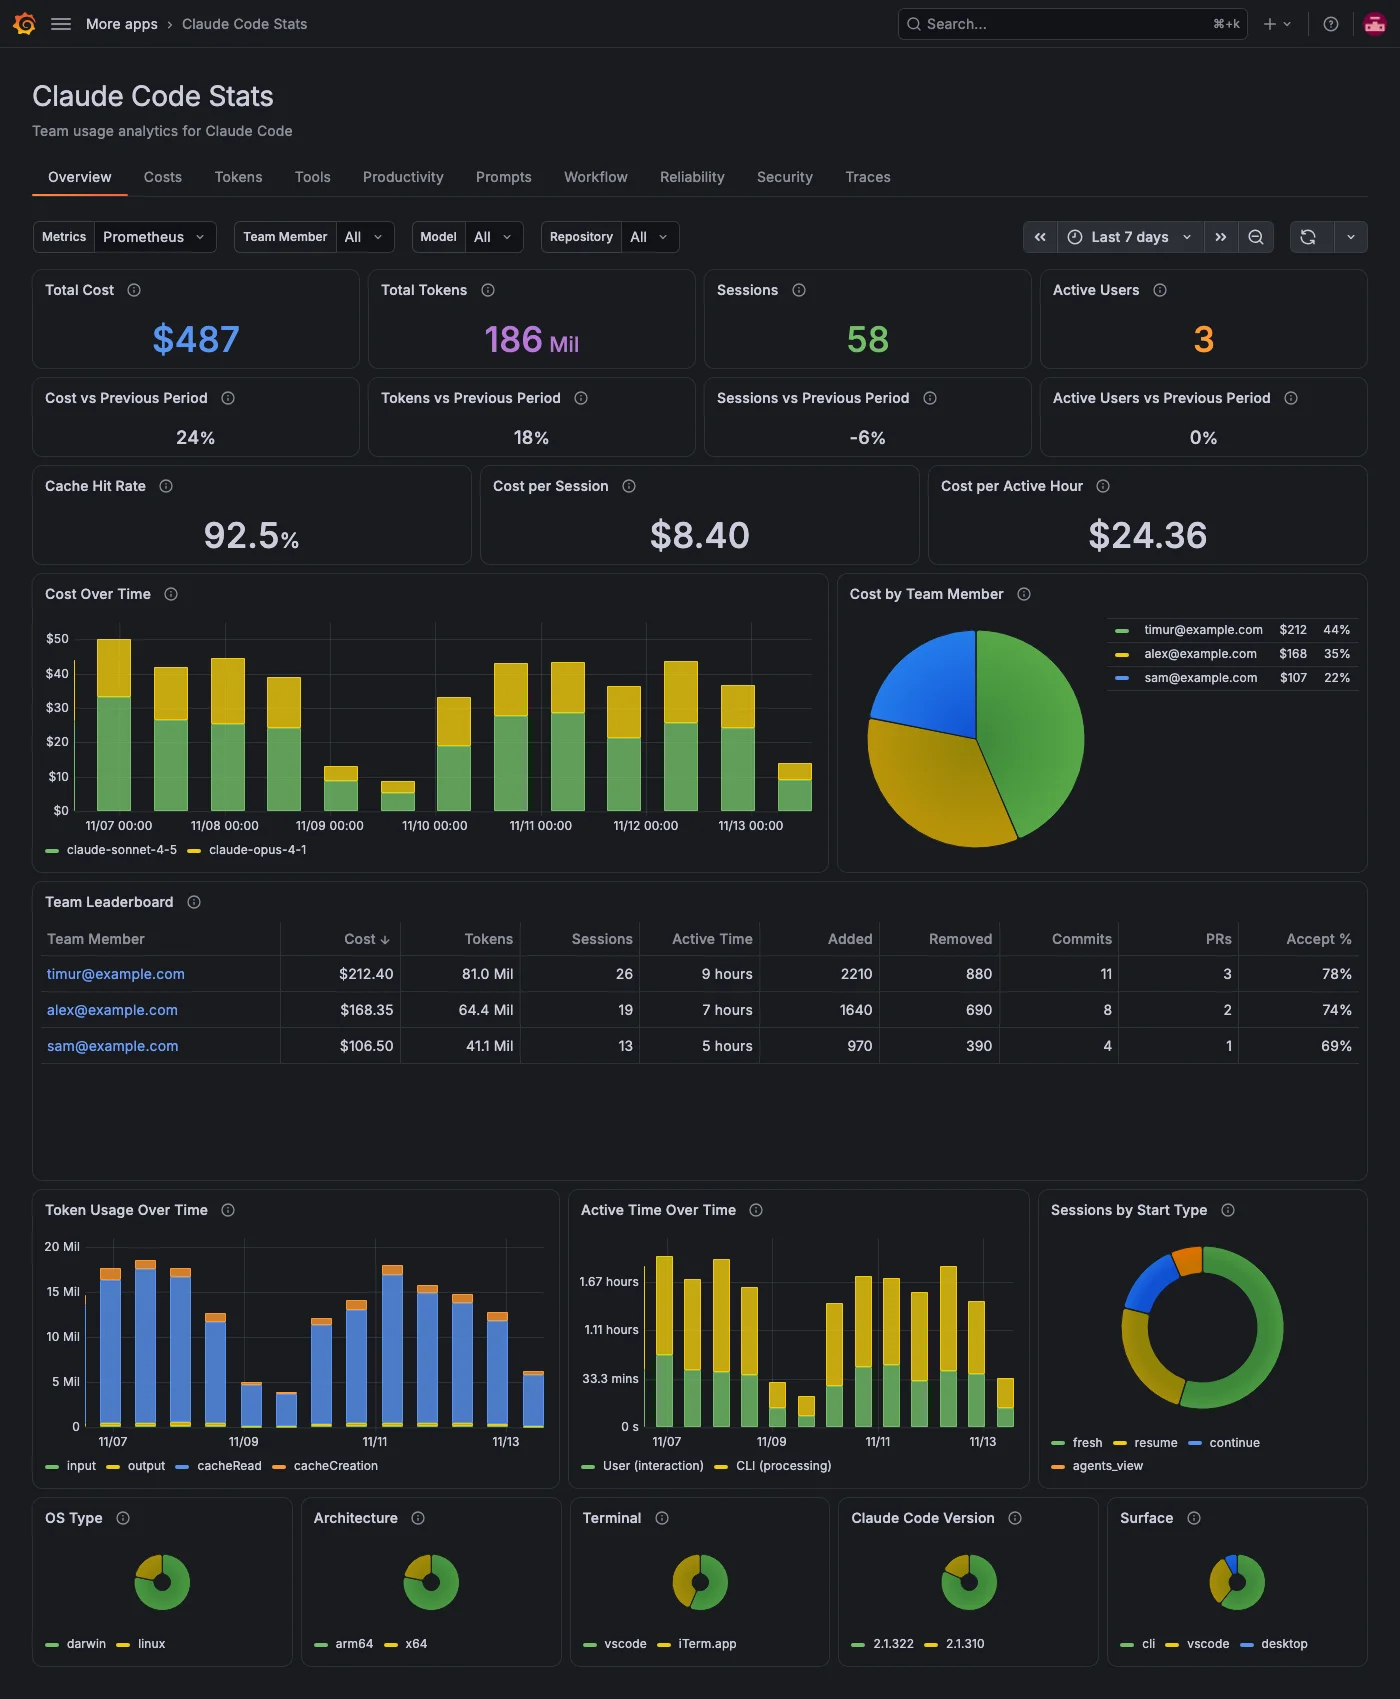
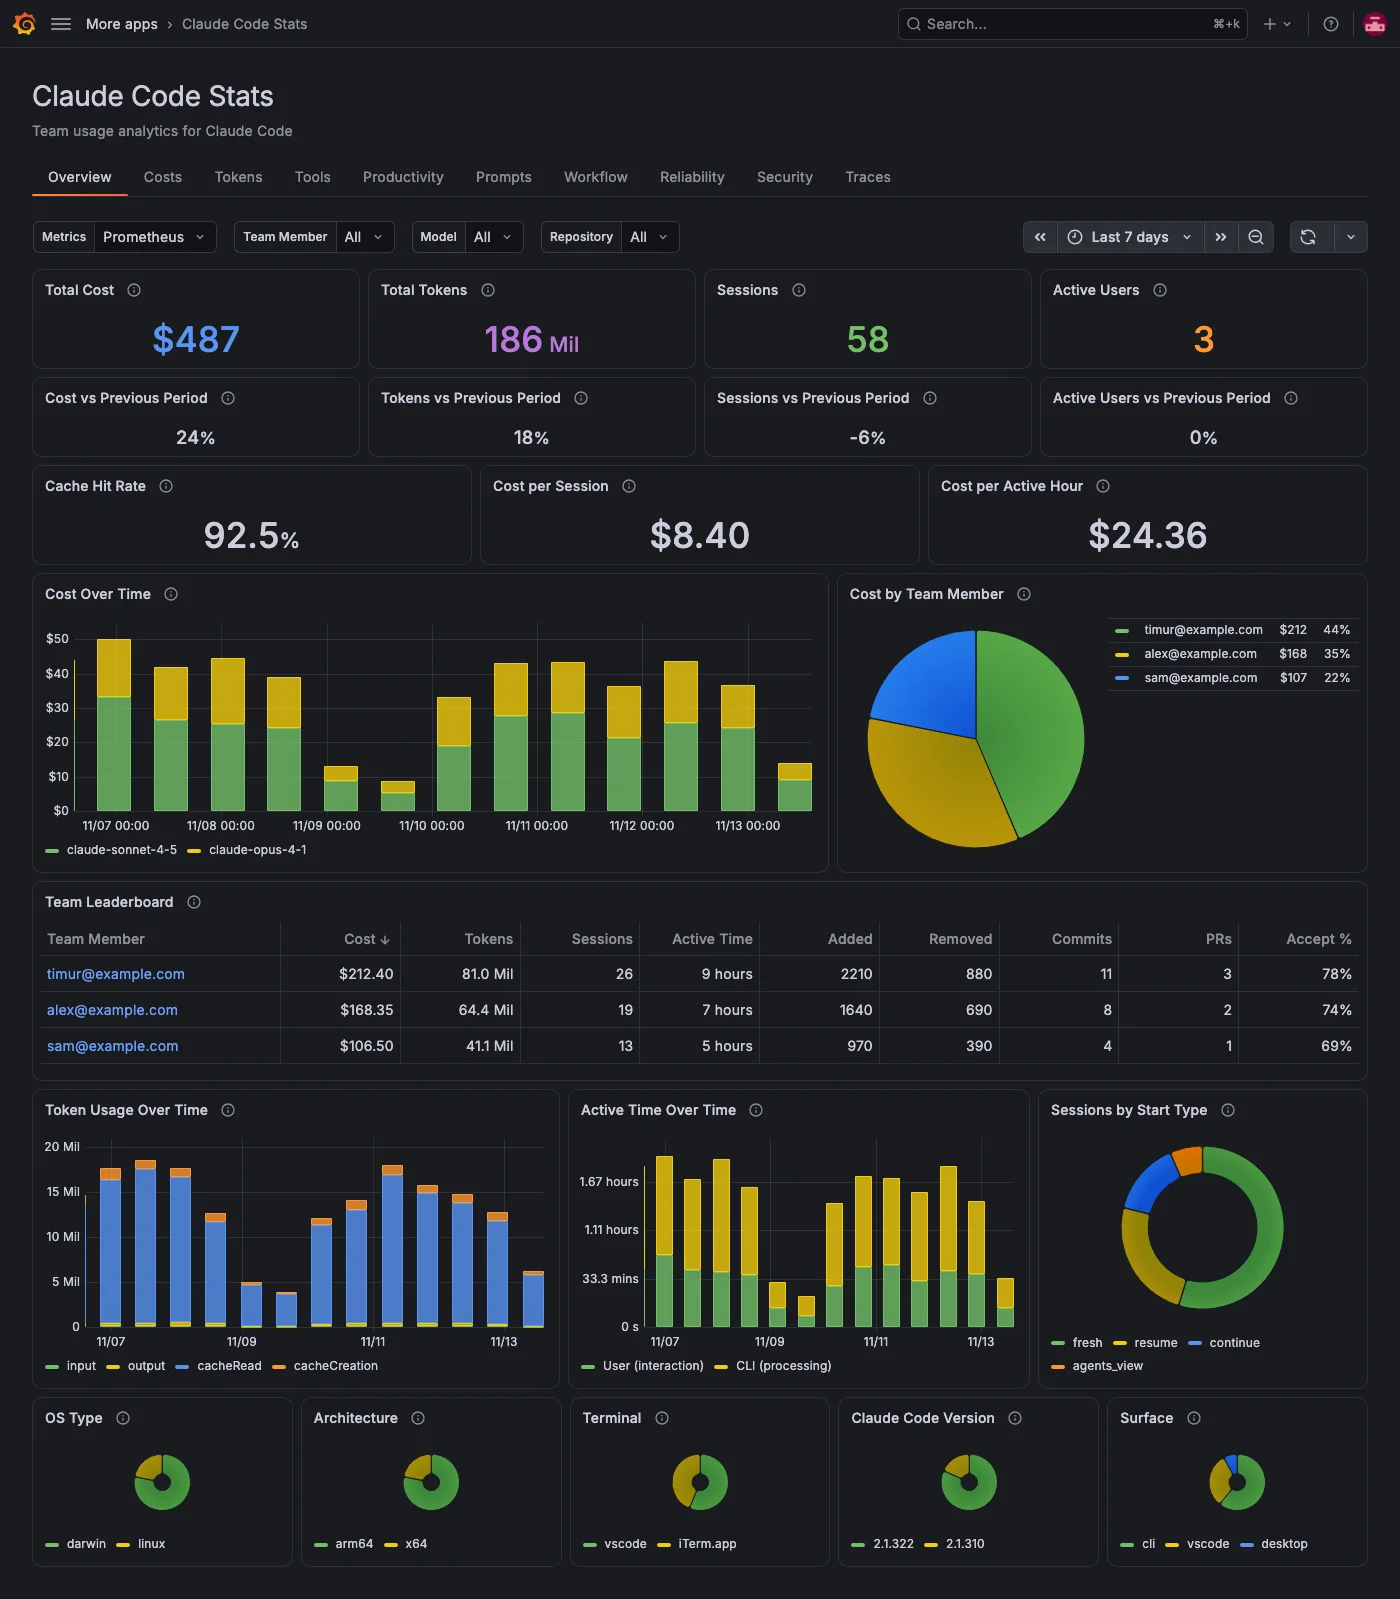
fix: hide the change row without a previous period and fit the leaderboard to its members

diff --git a/src/scenes/pages/OverviewScene.ts b/src/scenes/pages/OverviewScene.ts
@@ -12,7 +12,8 @@ import {
   SceneRefreshPicker,
 } from '@grafana/scenes';
 import { BigValueGraphMode, LegendDisplayMode } from '@grafana/schema';
-import { ACTIVE_TIME_TYPE_NAMES, changeVsPrevious, QUERIES, Queries } from '../queries';
+import { ACTIVE_TIME_TYPE_NAMES, changeVsPrevious, previousPeriod, QUERIES, Queries } from '../queries';
+import { fitHeightToRows, hideWhileEmpty } from '../fitToData';
 import { OVER_TIME_MIN_STEP, OVER_TIME_QUERY_OPTIONS, overTimeBars } from '../panelStyle';
 import { LABELS, PANEL_HEIGHTS } from '../../constants';
 import { teamLeaderboard } from './leaderboard';
@@ -242,8 +243,29 @@ export function getOverviewScene(
     ],
   });
 
+  // Change of the totals against the previous period. Hidden while the previous
+  // period has no cost, since every panel in it would say "No previous period".
+  const trendRow = new SceneFlexLayout({
+    direction: 'row',
+    height: 80,
+    children: TRENDS.map(([refId, name, key]) => new SceneFlexItem({ body: trendStat(refId, name, queries[key]) })),
+  });
+  const previousPeriodCost = new SceneQueryRunner({
+    datasource: { type: 'prometheus', uid: '${prometheus_ds}' },
+    queries: [{ refId: 'PreviousPeriodCost', expr: previousPeriod(queries.totalCost), instant: true }],
+  });
+
+  const leaderboard = teamLeaderboard(queries, variables);
+  const leaderboardRow = new SceneFlexLayout({
+    direction: 'row',
+    height: PANEL_HEIGHTS.LARGE,
+    children: [new SceneFlexItem({ body: leaderboard.panel })],
+    $behaviors: [fitHeightToRows(leaderboard.data, PANEL_HEIGHTS.LARGE)],
+  });
+
   return new EmbeddedScene({
     $timeRange: timeRange,
+    $behaviors: [previousPeriodCost, hideWhileEmpty(trendRow, previousPeriodCost)],
     $variables: variables,
     controls: [
       new VariableValueSelectors({}),
@@ -306,13 +328,7 @@ export function getOverviewScene(
           ],
         }),
         // Row 1a: Change of the totals against the previous period
-        new SceneFlexLayout({
-          direction: 'row',
-          height: 80,
-          children: TRENDS.map(
-            ([refId, name, key]) => new SceneFlexItem({ body: trendStat(refId, name, queries[key]) })
-          ),
-        }),
+        trendRow,
         // Row 1b: Efficiency ratios
         new SceneFlexLayout({
           direction: 'row',
@@ -382,12 +398,8 @@ export function getOverviewScene(
             }),
           ],
         }),
-        // Row 2b: Team leaderboard
-        new SceneFlexLayout({
-          direction: 'row',
-          height: PANEL_HEIGHTS.LARGE,
-          children: [new SceneFlexItem({ body: teamLeaderboard(queries, variables) })],
-        }),
+        // Row 2b: Team leaderboard, as tall as its rows
+        leaderboardRow,
         // Row 3: Token and Session Charts
         new SceneFlexLayout({
           direction: 'row',

diff --git a/src/scenes/fitToData.ts b/src/scenes/fitToData.ts
@@ -1,0 +1,49 @@
+import { LoadingState, PanelData } from '@grafana/data';
+import { SceneDataProvider, SceneFlexLayout, SceneObject } from '@grafana/scenes';
+
+// Layout behaviors that follow a query's result. Both listen to a data provider
+// that stays active on its own: a hidden row's panels are unmounted and stop
+// querying, so a row can't decide from its own panels when to come back.
+
+const isDone = (data?: PanelData): data is PanelData => data?.state === LoadingState.Done;
+
+/**
+ * Hides `row` while `check` returns no rows, and shows it again when it does.
+ * `check` must be active while the row is hidden, for example in the scene's
+ * `$behaviors` ahead of this behavior.
+ */
+export function hideWhileEmpty(row: SceneFlexLayout, check: SceneDataProvider) {
+  return () => {
+    const sub = check.subscribeToState(({ data }) => {
+      if (isDone(data)) {
+        row.setState({ isHidden: data.series.every((frame) => frame.length === 0) });
+      }
+    });
+    return () => sub.unsubscribe();
+  };
+}
+
+// A table panel's title bar and padding, and one header or body row, in pixels.
+const TABLE_CHROME = 56;
+const TABLE_ROW = 36;
+
+/**
+ * Sizes the row it's attached to by the rows of the table that `table` feeds, up to `max` pixels,
+ * so a table with one or two rows doesn't sit in a mostly empty panel. A longer
+ * table keeps `max` and scrolls.
+ */
+export function fitHeightToRows(table: SceneDataProvider, max: number) {
+  return (row: SceneObject) => {
+    if (!(row instanceof SceneFlexLayout)) {
+      return;
+    }
+    const sub = table.subscribeToState(({ data }) => {
+      if (isDone(data)) {
+        // At least room for the header and "No data".
+        const rows = Math.max(data.series[0]?.length ?? 0, 2);
+        row.setState({ height: Math.min(max, TABLE_CHROME + TABLE_ROW * (rows + 1)) });
+      }
+    });
+    return () => sub.unsubscribe();
+  };
+}

diff --git a/src/scenes/queries.ts b/src/scenes/queries.ts
@@ -43,14 +43,21 @@ function resolveMember(expr: string): string {
 }
 
 /**
+ * The same query over the previous period of the same length: every
+ * `[$__range]` window shifted back by `offset $__range`.
+ */
+export function previousPeriod(expr: string): string {
+  return expr.split('[$__range])').join('[$__range] offset $__range)');
+}
+
+/**
  * Percent change of a period total against the previous period of the same
- * length: the same query with every `[$__range]` window shifted back by
- * `offset $__range`. Empty when the previous period total was 0 or missing:
- * there is nothing to compare with, and dividing by 0 would show infinity.
- * An empty current period with a previous total is a drop to 0 (-100%).
+ * length (see `previousPeriod`). Empty when the previous period total was 0 or
+ * missing: there is nothing to compare with, and dividing by 0 would show
+ * infinity. An empty current period with a previous total is a drop to 0 (-100%).
  */
 export function changeVsPrevious(expr: string): string {
-  const previous = expr.split('[$__range])').join('[$__range] offset $__range)');
+  const previous = previousPeriod(expr);
   // An empty current period counts as 0, so a drop to nothing shows -100%.
   return `((${expr} or ${previous} * 0) - ${previous}) / (${previous} > 0) * 100`;
 }

diff --git a/tests/overview.spec.ts b/tests/overview.spec.ts
@@ -52,6 +52,28 @@ test.describe('Overview scene', () => {
     }
   });
 
+  test('hides the change row when there is no previous period', async ({ mockData, gotoPage, page, selectors }) => {
+    await mockEmptyPanels(page, ['PreviousPeriodCost']);
+    const app = await gotoPage();
+
+    await expect(panelByTitle(app, selectors, 'Total Cost')).toContainText(DISPLAY.TotalCost);
+    for (const [, name] of TREND_PANELS) {
+      await expect(panelByTitle(app, selectors, `${name} vs Previous Period`)).toHaveCount(0);
+    }
+  });
+
+  test('sizes the leaderboard to its members', async ({ mockData, gotoPage, selectors }) => {
+    const app = await gotoPage();
+    const table = panelByTitle(app, selectors, 'Team Leaderboard');
+    await expect(table.getByText(MEMBERS[2], { exact: true })).toBeVisible();
+
+    // Three members need far less than the 300 px a long list gets, and every row still shows.
+    await expect.poll(async () => (await table.boundingBox())?.height ?? 0).toBeLessThan(250);
+    for (const member of MEMBERS) {
+      await expect(table.getByText(member, { exact: true })).toBeVisible();
+    }
+  });
+
   test('shows usage by surface, with a hint when entrypoints are not sent', async ({
     mockData,
     gotoPage,

diff --git a/src/scenes/pages/leaderboard.ts b/src/scenes/pages/leaderboard.ts
@@ -70,7 +70,7 @@ export function teamLeaderboard(queries: Queries, variables: SceneVariableSet) {
     ],
   });
 
-  return PanelBuilders.table()
+  const panel = PanelBuilders.table()
     .setTitle('Team Leaderboard')
     .setDescription(
       'One row per team member for the period. Added and Removed are lines of code, PRs are pull requests, and Accept % is the edit acceptance rate. Click a column header to sort, or a member to filter the app to them. Shows every member regardless of the Team Member filter; cost and tokens follow the Model filter.'
@@ -94,4 +94,6 @@ export function teamLeaderboard(queries: Queries, variables: SceneVariableSet) {
         ]);
     })
     .build();
+  // The data too, so the row can size itself to the number of members.
+  return { panel, data };
 }

diff --git a/tests/mocks/prometheus.ts b/tests/mocks/prometheus.ts
@@ -295,6 +295,8 @@ export const LEADERBOARD = {
 // Scalar values rendered by stat panels.
 export const SCALARS = {
   TotalCost: sum(COST.byMember),
+  // Cost in the period before, which the Overview checks before showing the change row.
+  PreviousPeriodCost: 390,
   TotalTokens: sum(TOKENS.byType),
   TotalSessions: sum(SESSIONS_BY_START_TYPE) - SESSIONS_BY_START_TYPE.agents_view,
   ActiveUsers: MEMBERS.length,

diff --git a/catalog-docs/features/overview.md b/catalog-docs/features/overview.md
@@ -24,7 +24,7 @@ The top row shows four totals:
 
 Cost is the estimate Claude Code reports. For billing data, use your Anthropic or cloud provider console.
 
-The row under the totals compares cost, tokens, sessions and active users with the previous period of the same length, such as the 7 days before the last 7 days. Each shows **No previous period** when the previous period had none to compare with, and -100% when it had some but this period has none.
+The row under the totals compares cost, tokens, sessions and active users with the previous period of the same length, such as the 7 days before the last 7 days. The row is hidden when the previous period had no cost, such as in a new setup. Otherwise each panel shows **No previous period** when its own total had nothing to compare with, and -100% when the previous period had some but this period has none.
 
 ## Check efficiency
 
@@ -38,7 +38,7 @@ The second row shows three ratios for the period:
 
 ## Compare team members
 
-**Team Leaderboard** has one row per team member with their cost, tokens, sessions, active time, lines added and removed, commits, pull requests and edit acceptance rate. It's sorted by cost. Click a column header to sort by it, or click a member's name to filter every tab to that member, keeping your other filters. Usage that can't be attributed to anyone isn't listed, but still counts in the totals and the other per-member panels.
+**Team Leaderboard** has one row per team member with their cost, tokens, sessions, active time, lines added and removed, commits, pull requests and edit acceptance rate. It grows with the number of members and scrolls past about five. It's sorted by cost. Click a column header to sort by it, or click a member's name to filter every tab to that member, keeping your other filters. Usage that can't be attributed to anyone isn't listed, but still counts in the totals and the other per-member panels.
 
 ## See trends over time
 

diff --git a/CHANGELOG.md b/CHANGELOG.md
@@ -54,6 +54,7 @@
 - The Traces tables show their key columns with readable names, and a Model Requests trace ID opens the trace (#92)
 - Counts show whole numbers, costs show cents, and the Cost Breakdown table has Team Member, Model and Cost columns without the query time (#95)
 - Narrow panels stay readable: bar gauge text no longer grows to heading size, MCP tool labels lead with the tool, leaderboard headers and pie legends fit, and the Surface hint is no longer cut off (#96)
+- The vs Previous Period row is hidden when there is no previous period, and the Team Leaderboard is only as tall as its members need (#96)
 - The catalog listing has current screenshots, description and keywords, and the root README points to the docs (#97)
 
 ## 1.1.0
